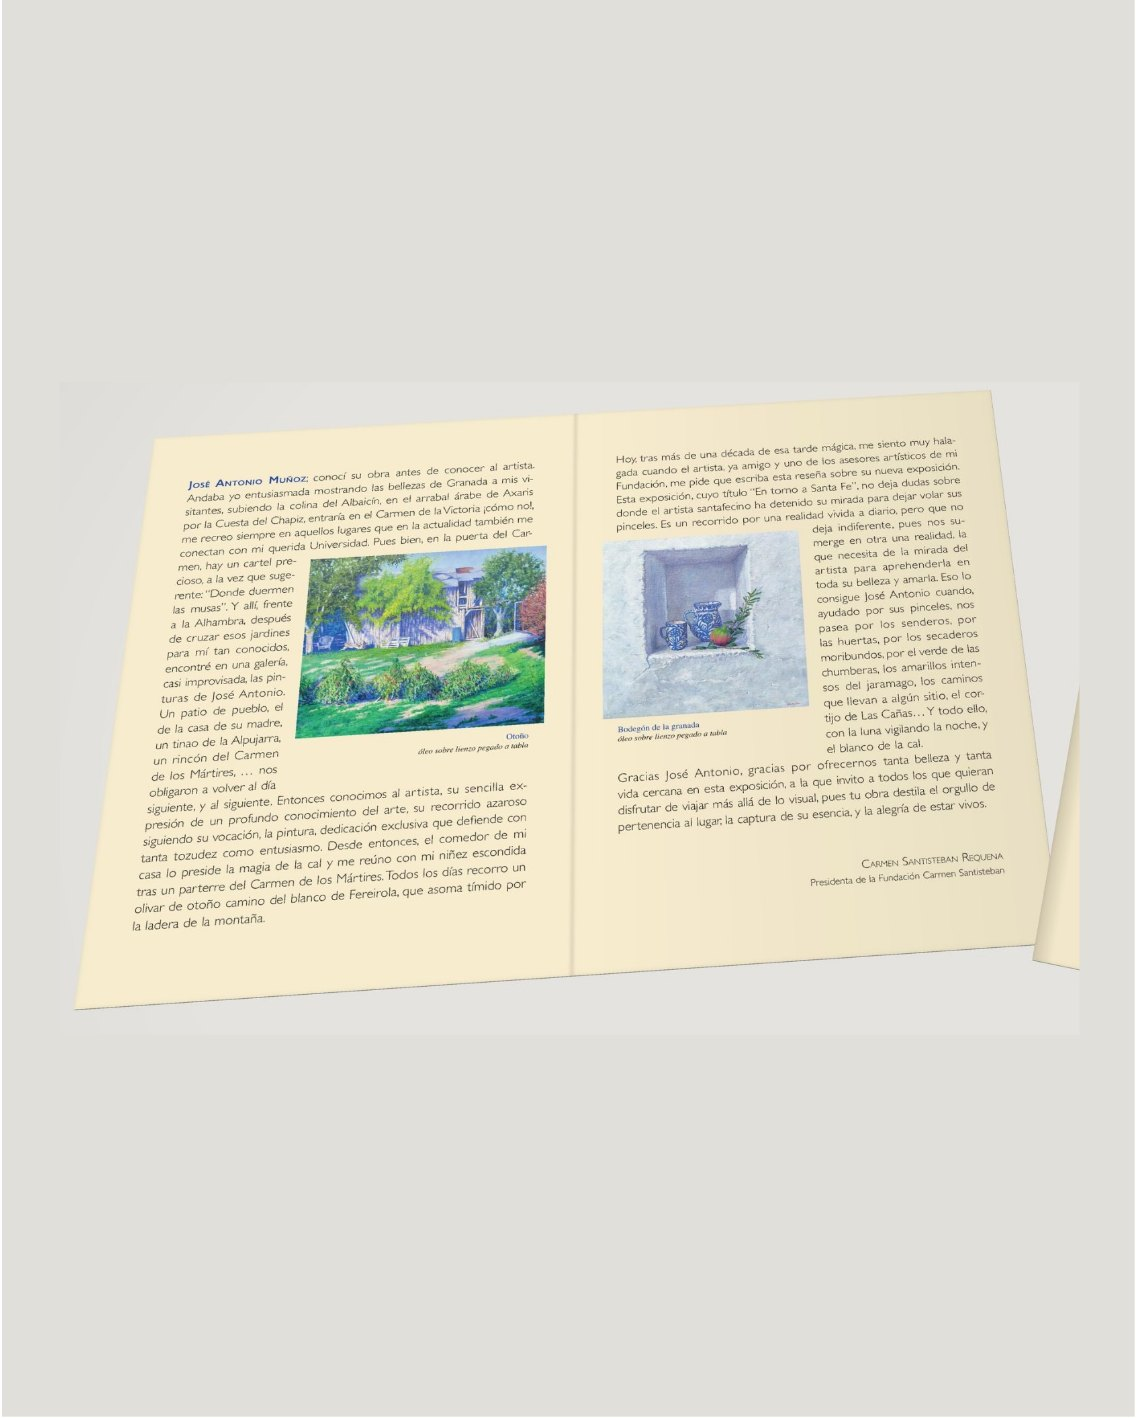
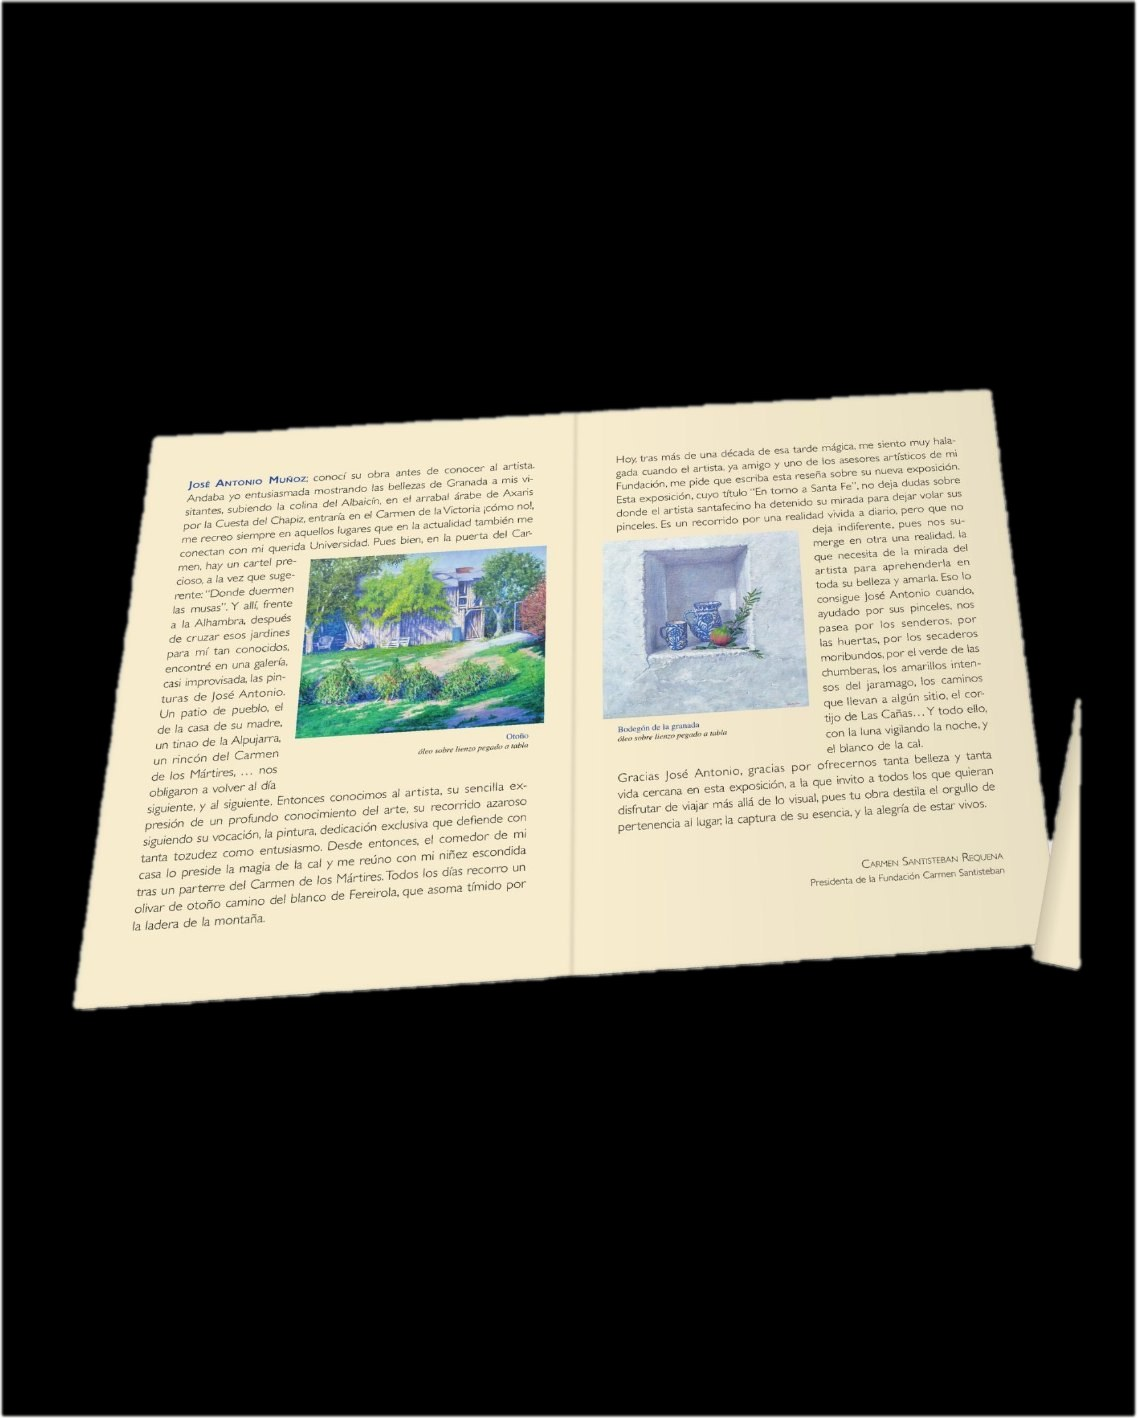
Fondo negro en las imágenes de Otros trabajos; quitar cartel de Capitulaciones
Claude-Session: https://claude.ai/code/session_014ZHEqD2MNxqjAg6cJYzQom

diff --git a/web/sitio/contenido.js b/web/sitio/contenido.js
@@ -193,13 +193,6 @@ window.CONTENIDO = {
         completa: "fotos/proyectos/11-diptico-pedro-zamora-completa.jpg",
       },
       {
-        titulo: "534 aniversario de las Capitulaciones",
-        tipo: "Cartel",
-        portada: "fotos/proyectos/12-cartel-capitulaciones-portada.jpg",
-        detalle: "fotos/proyectos/12-cartel-capitulaciones-detalle.jpg",
-        completa: "fotos/proyectos/12-cartel-capitulaciones-completa.jpg",
-      },
-      {
         titulo: "III Festival de Literatura Histórica",
         tipo: "Cartel",
         portada: "fotos/proyectos/13-cartel-festival-literatura-portada.jpg",

diff --git a/web/scripts/fondo_negro.py b/web/scripts/fondo_negro.py
@@ -1,0 +1,18 @@
+import sys,numpy as np
+from PIL import Image,ImageFilter
+from scipy import ndimage as nd
+def neg(src,dst,lummax=236,satmax=16):
+    im=Image.open(src).convert('RGB');a=np.array(im).astype(float)
+    sat=a.max(2)-a.min(2);lum=a.mean(2)
+    cand=(sat<satmax)&(lum<lummax)&(lum>120)
+    cand=nd.binary_opening(cand,iterations=2)
+    lab,n=nd.label(cand)
+    edge=set(np.unique(np.concatenate([lab[0],lab[-1],lab[:,0],lab[:,-1]])))-{0}
+    m=np.isin(lab,list(edge))
+    m=nd.binary_closing(m,iterations=2)
+    m=nd.binary_erosion(m,iterations=1) if False else m
+    mf=np.array(Image.fromarray((m*255).astype('uint8')).filter(ImageFilter.GaussianBlur(1.2))).astype(float)/255
+    out=a*(1-mf[...,None])
+    Image.fromarray(out.astype('uint8')).save(dst,quality=88)
+if __name__=='__main__':
+    neg(sys.argv[1],sys.argv[2],*map(float,sys.argv[3:]))
